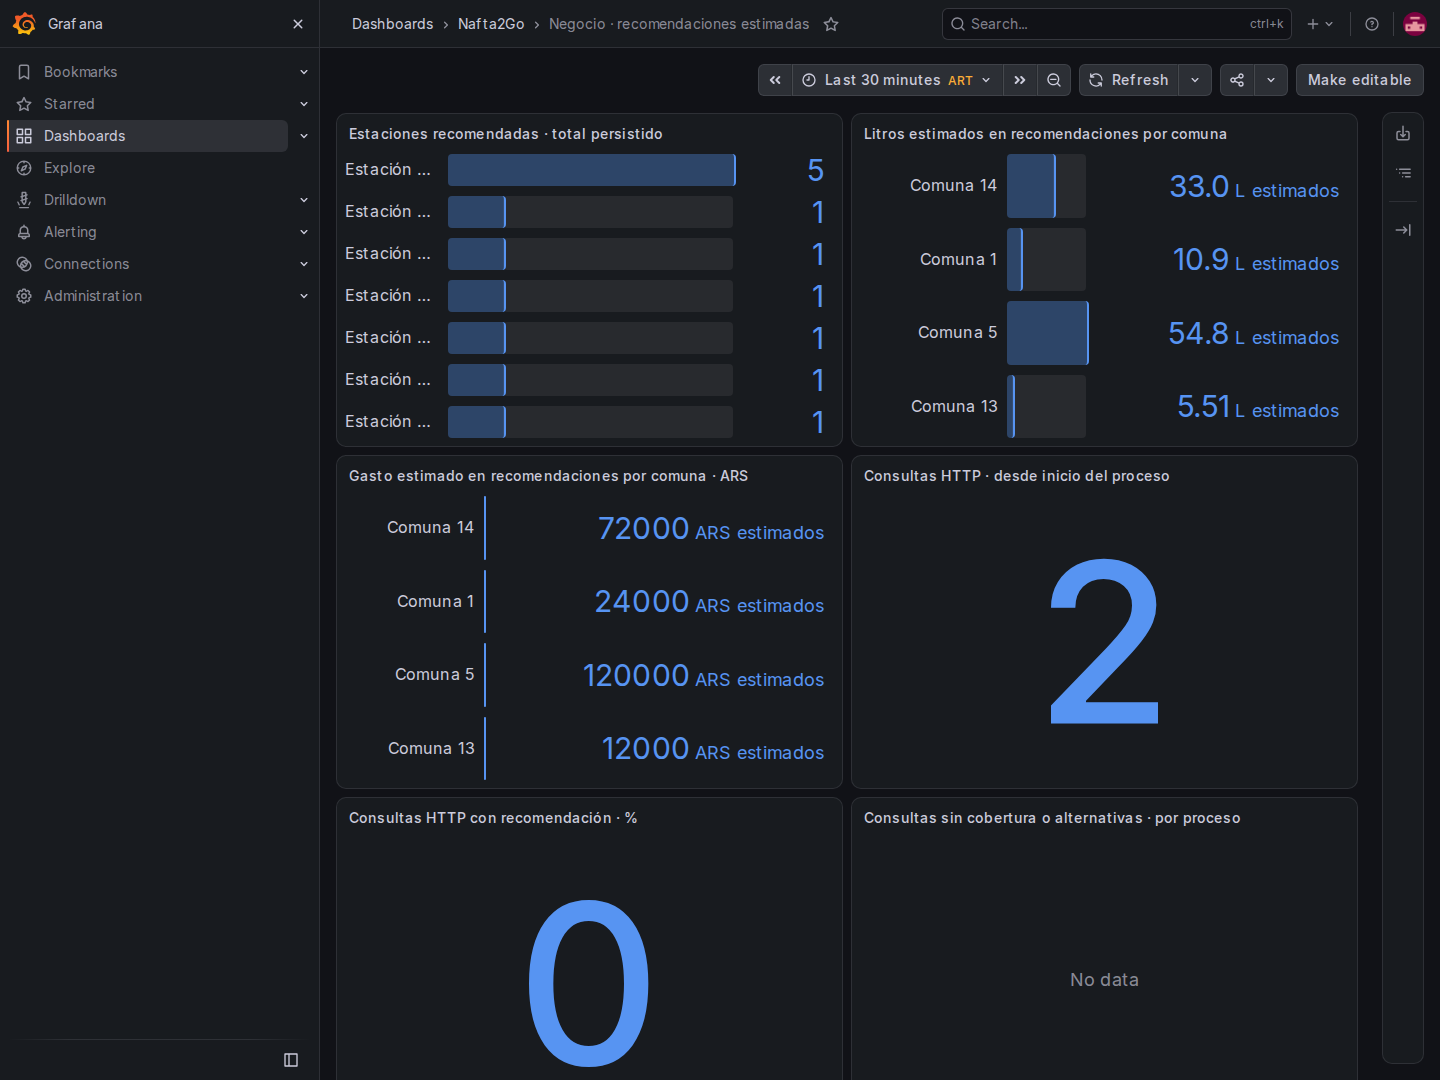
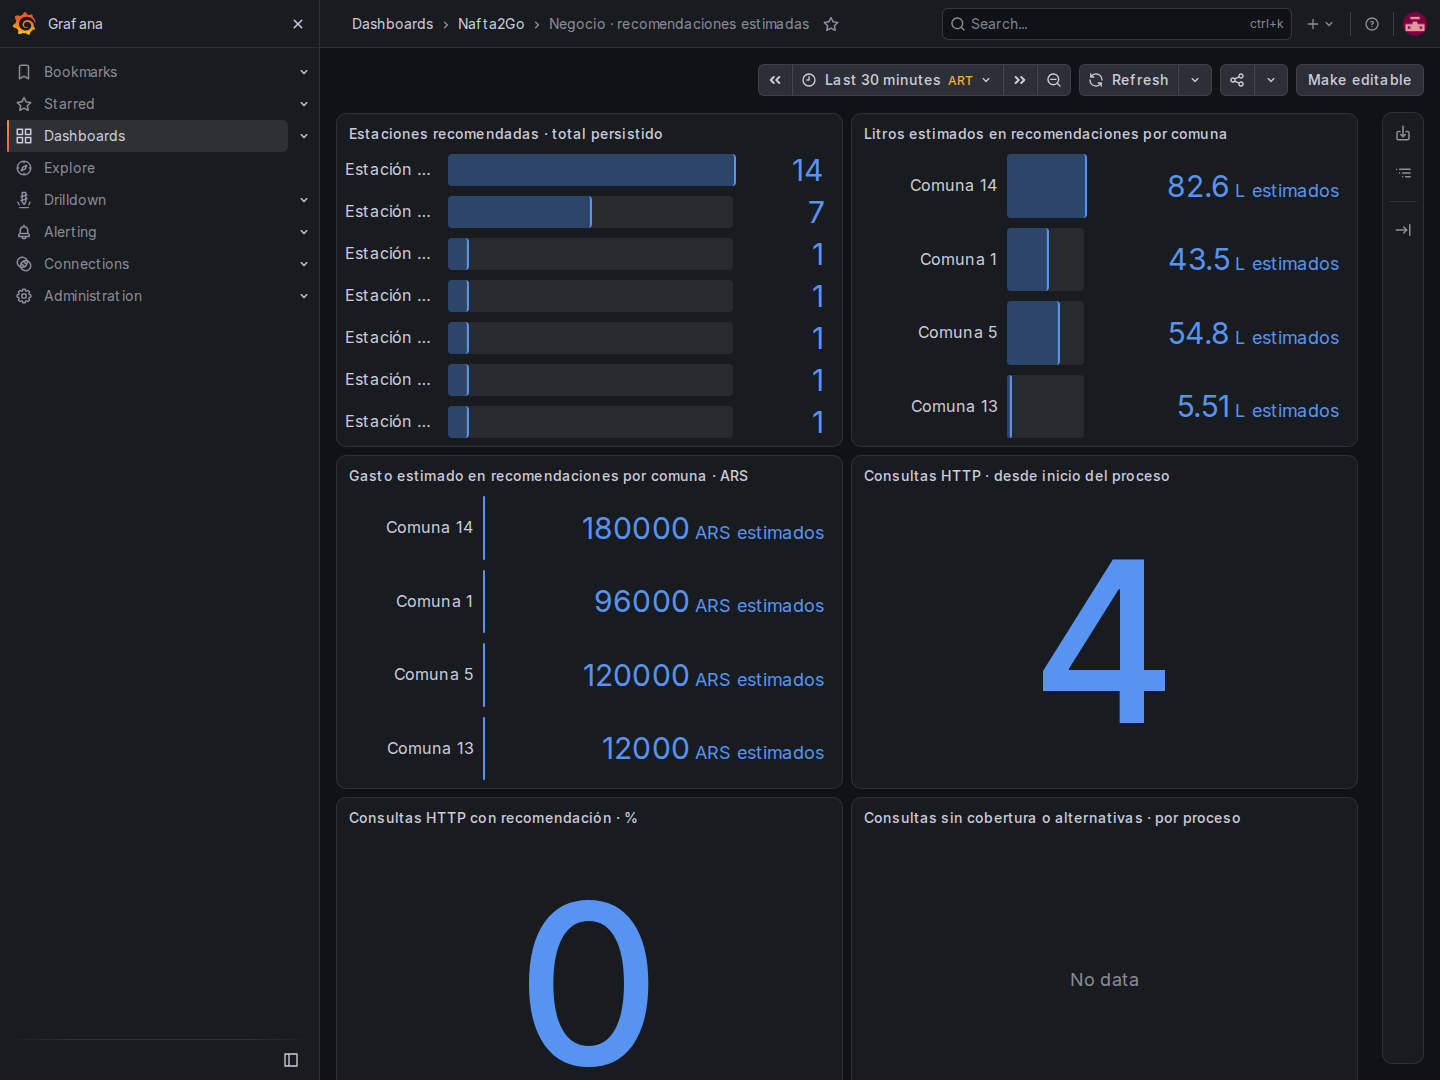
docs(ingesta): registrar el canal autónomo completo en aws
Closes #160\nRefs #22, #23, #24

diff --git a/README.md b/README.md
@@ -21,7 +21,7 @@ Santiago Bunge
 - [ADRs](adr/README.md): decisiones de diseño y comparación de alternativas.
 - [SRD](docs/SRD.md): especificación técnica de la POC: arquitectura y diagramas, stack, modelo de datos, contratos y estrategia de datos.
 - [Consulta completa de POC-05](docs/POC-05.md): ejecución, ranking, evidencia real y simplificaciones.
-- [Ingesta diaria y monitor](docs/INGESTA.md): unidades systemd, alertas locales y evidencia de fallos/recuperación; supervisión sostenida pendiente (MVP-01).
+- [Ingesta diaria y monitor](docs/INGESTA.md): unidades systemd, alertas locales y evidencia de fallos/recuperación; [canal AWS automático y límites comprobados](docs/evidencia/operacion-continua-2026-11-23/README.md) (MVP-01).
 - [Preparación AWS](docs/AWS.md): acceso del sandbox, plantilla de red, validación y límites.
 - [Servidor de demo AWS](docs/AWS-DEMO.md): `t3.small` efímera, entrega versionada por SSM, costos, resultado de la primera demo y respaldo de la base.
 - [Hosting continuo](docs/HOSTING.md): web en GitHub Pages y API/Grafana por HTTPS en EC2 con guardia de presupuesto (ADR-032); [evidencia operativa](docs/evidencia/operacion-continua-2026-11-23/README.md).
@@ -91,7 +91,7 @@ Cada decisión estructural tiene un ADR con alternativas comparadas; el índice 
     de carga con Locust, registro de modelos con alias de campeón y transferencia
     verificada de capturas.
 
-  Abarca de ADR-008 a ADR-031.
+  Abarca de ADR-008 a ADR-032.
 
 ## Desarrollo local
 
@@ -127,7 +127,7 @@ La Entrega 2 (POC) incluye el flujo completo y su video de demostración; la Ent
 | Componente | Tarea | Estado |
 |---|---|---|
 | Integración continua: links, lint, tests y secretos | POC-07 | Implementado |
-| Aplicación web local | MVP-03 | Formulario y resultados explicados con acceso de demo; flujos de teclado y navegador automatizados; validación física de móvil pendiente; ver docs/WEB.md |
+| Aplicación web local | MVP-03 | Formulario y resultados explicados con acceso de demo; flujos de teclado y navegador automatizados; prueba física de iPhone 13 informada por el dueño; otros navegadores y lector de pantalla sin acreditar; ver docs/WEB.md |
 | API del recomendador | MVP-02 | Implementada localmente con token, caché por proceso y tests HTTP; despliegue público por HTTPS comprobado; ver docs/API.md |
 | Normalización de precios | POC-01 | Implementado: descarga verificada, reglas con rechazos y alertas, y corrida real documentada en docs/NORMALIZACION.md |
 | Cobertura de precios y escenario histórico | POC-02 | Implementado: mínimo de 3 estaciones recientes en el corredor, escenario congelado del 24/10 rotulado como histórico y reporte en docs/COBERTURA.md |
@@ -156,7 +156,7 @@ La Entrega 2 (POC) incluye el flujo completo y su video de demostración; la Ent
 - **Diagnóstico ML:** sirve una referencia estadística (mediana de la bandera) con alertas provisionales cuya precisión no se midió. Los modelos aprendidos solo se evalúan offline. En la demo de AWS el diagnóstico queda no disponible si falta el histórico.
 - **Demo AWS:** una sola instancia, operación continua autorizada y guardia de presupuesto; detener cómputo no elimina cargos de discos/IP. Ver docs/HOSTING.md.
 - **Pendientes:**
-  - ingesta autónoma en AWS (#160);
+  - video, identificación de la entrega y revisión final del equipo (#24);
   - supervisión continua de la ingesta;
   - pruebas con usuarios y en un teléfono físico.
 

diff --git a/docs/evidencia/operacion-continua-2026-11-23/README.md b/docs/evidencia/operacion-continua-2026-11-23/README.md
@@ -95,3 +95,41 @@ HTTP loopback; no incluye el transporte HTTPS público. p95 UC01 0,66478 s y
 UC02 0,65488 s. Se guardaron las 103 consultas y la
 [auditoría posterior](qa-live-audit.json) terminó sin fallas. Los tamaños de las
 muestras y las condiciones no se extrapolan a veinte usuarios simultáneos.
+
+## Canal autónomo completo
+
+[Actions de adquisición](acquisition-run.json) terminó correctamente usando
+OIDC y un runner dedicado con acceso al catálogo. [Resultado](acquisition.json):
[1 lines of base64/hex data omitted]
+732 precios utilizables de CABA. No hubo transferencia manual del CSV ni uso de
+SSO personal en el circuito. Linux y macOS alojados habían agotado los reintentos
+de conexión; eso no demuestra que el proveedor no publique archivos.
+
+La [prueba programada](autonomous-ingestion.json) y su
+[verificación](ingestion-final.json) registran los runs 5 y 6 en AWS, ambos
+exitosos, 732 precios por versión y 184 estaciones. El segundo está rotulado
+como adquisición de contenido duplicado del run 5; no se presenta como una
+publicación nueva del proveedor. Sus recomendaciones seleccionan una versión,
+no suman las filas de ambas. Los dos conservan el linaje de Actions y el hash del
+recibo. Monitor sin alertas abiertas; readiness 200.
+
+Se disparó el servicio existente mediante timers transitorios para observarlo
+ahora; no se atribuye la prueba al calendario diario de mañana. La instalación
+diaria queda habilitada: Actions 06:17 y consumo EC2 06:45 de Argentina, monitor
+horario y `Persistent=true`. La primera prueba usó la precisión predeterminada
+del timer y el monitor consultado antes de dispararse indicó ausencia; al ejecutar
+la ingesta, el monitor se resolvió correctamente.
+
+Las capturas actuales de Grafana se renovaron después de esta recuperación.
+Los precios conservan sus fechas originales: el máximo observado del conjunto
+CABA es 17/11/2026 aunque se descargó el 23/11; no se rejuvenecen al copiarlo.
+`fetched_at` de RawCapture usa hora de Argentina y las marcas de ejecución
+son UTC, según el contrato de persistencia.
+
+El runner oficial Linux x64 2.338.2 se verificó contra SHA-256
[1 lines of base64/hex data omitted]
+con Python 3.12 y AWS CLI 2.42.1. Su servicio de usuario está habilitado, con
+reinicio y `Linger=yes`; usa credenciales de máquina de GitHub y OIDC de AWS.
+Se instaló fuera del checkout. Necesita este equipo encendido y con red: no se
+acredita disponibilidad 24/7 del origen de adquisición ni de sus proveedores.
+La API y Grafana sí siguen en EC2 bajo el guardia de presupuesto.

diff --git a/docs/INGESTA.md b/docs/INGESTA.md
@@ -13,7 +13,9 @@ anteriores. El recibo no firma al proveedor HTTP: requiere un canal privado y
 autenticado. El productor y receptor se incorporan como otro tramo de #160,
 según [ADR-031](../adr/ADR-031-transferencia-verificada-de-capturas.md).
 Pruebas de integridad, linaje y persistencia: `tests/adapters/test_capture_relay.py`.
-#160 sigue abierto: este contrato no instala programación ni acredita autonomía.
+El contrato por sí solo no acredita autonomía. El canal completo fue instalado
+y [verificado en AWS](evidencia/operacion-continua-2026-11-23/README.md):
+Actions → S3 → servicio EC2, con linaje, timers y monitor sin alertas.
 
 RF08 requiere una ingesta diaria. El comando registra `running` **antes** de
 consultar el catálogo: un fallo de catálogo, descarga, archivo local o normalización
@@ -423,14 +425,14 @@ con espacios de este equipo. No se instalan dependencias en el Python global.
 
 La instalación usa el runner oficial de `actions/runner`, verificando el SHA-256
 de su release, registro de un único repositorio y credenciales de máquina en
-un directorio privado ignorado por Git. Su servicio de usuario es
+un directorio privado fuera del checkout de Git. Su servicio de usuario es
 `nafta2go-energy-runner.service`, habilitado con `Linger=yes`; no usa AWS SSO.
 Actions obtiene credenciales AWS temporales por OIDC para escribir únicamente
 en el bucket; EC2 consume con su propio rol. El registro inicial requiere una
 cuenta autorizada de GitHub; no se conserva un PAT ni una access key de AWS.
 
 Para reproducir: registrar un runner Linux x64 desde Settings → Actions → Runners
-con la etiqueta anterior, instalar Python 3.12, habilitar su servicio con reinicio
+con la etiqueta anterior, instalar Python 3.12 y AWS CLI v2 en el PATH del servicio, habilitar su servicio con reinicio
 y configurar la variable del repositorio. Mantener el runner actualizado.
 No ejecutar código de forks ni PR no revisados en ese equipo. Comprobar
 `systemctl --user is-active nafta2go-energy-runner.service` y el estado online en
@@ -441,3 +443,8 @@ suspensión, falta de red ni apagado físico. En esos casos Actions queda en col
 y AWS conserva su última versión utilizable; el monitor informa falta/fallo de
 ingesta. No se acredita disponibilidad 24/7 del equipo de adquisición. Para
 retirarlo, detener/deshabilitar su servicio y eliminar su registro en GitHub.
+
+
+La prueba completa del 23/11 y sus límites están en la
+[evidencia del canal autónomo](evidencia/operacion-continua-2026-11-23/README.md).
+No se equipara la hora de descarga con la fecha de los precios originales.

diff --git a/adr/README.md b/adr/README.md
@@ -6,11 +6,18 @@ Los Architecture Decision Records documentan decisiones de diseño relevantes, l
 
 | ADR | Decisión | Estado |
 |---|---|---|
+| [ADR-001](ADR-001-alcance-y-estrategia-de-datos.md) | Alcance en CABA y estrategia frente a la baja cobertura reciente | Aceptado |
+| [ADR-002](ADR-002-recomendador-deterministico-y-diagnostico-ml.md) | Recomendador determinístico con diagnóstico ML separado | Aceptado |
+| [ADR-003](ADR-003-proveedor-de-rutas.md) | OpenRouteService como proveedor principal y OSRM como alternativa | Aceptado |
+| [ADR-004](ADR-004-arquitectura-por-capas.md) | Arquitectura modular por capas | Aceptado |
 
 ## Decisiones de la Entrega 2
 
 | ADR | Decisión | Estado |
 |---|---|---|
+| [ADR-005](ADR-005-persistencia-de-la-poc.md) | SQLite con SQLAlchemy y Alembic para la persistencia de la POC | Aceptado |
+| [ADR-006](ADR-006-escenario-historico-de-la-poc.md) | Captura vigente congelada como escenario histórico de la POC | Propuesto |
+| [ADR-007](ADR-007-trazabilidad-de-recomendaciones-historicas.md) | Origen de datos de recomendaciones históricas | Propuesto |
 
 La decisión sobre el proveedor de rutas se aceptó con la prueba autenticada de POC-03; el resultado está en [docs/RUTAS.md](../docs/RUTAS.md).
 
@@ -48,5 +55,5 @@ La decisión sobre el proveedor de rutas se aceptó con la prueba autenticada de
 | [ADR-028](ADR-028-url-https-con-cloudflare.md) | URL HTTPS de demo con Cloudflare Tunnel | Reemplazado por ADR-032 |
 | [ADR-029](ADR-029-pruebas-de-carga-con-locust.md) | Pruebas de carga y estrés con Locust sobre un servidor aislado | Propuesto |
 | [ADR-030](ADR-030-registro-de-modelos-versionado.md) | Registro de modelos versionado con alias de campeón | Propuesto |
-| [ADR-031](ADR-031-transferencia-verificada-de-capturas.md) | Transferencia verificada de capturas para la ingesta cloud | Propuesto |
+| [ADR-031](ADR-031-transferencia-verificada-de-capturas.md) | Transferencia verificada de capturas para la ingesta cloud | Aceptado |
 | [ADR-032](ADR-032-pages-y-api-publica-con-presupuesto.md) | Pages y API pública con presupuesto total | Aceptado |

diff --git a/adr/ADR-031-transferencia-verificada-de-capturas.md b/adr/ADR-031-transferencia-verificada-de-capturas.md
@@ -1,5 +1,5 @@
 ---
-status: Propuesto
+status: Aceptado
 date: 2026-11-23
 decision-makers: Equipo Nafta2Go
 consulted: ADR-019, ADR-024, issue 160
@@ -61,3 +61,16 @@ recuperan al arrancar un disparo omitido y rechazan recibos vencidos. Se mantien
 apagado automático y límites de duración. Las pruebas simulan transporte, fallos
 y permisos; la evidencia de creación de infraestructura no reemplaza una corrida
 OIDC ni una ingesta automática exitosa. Sin esa comprobación #160 sigue abierto.
+
+
+## Verificación y entorno de adquisición
+
+El 23/11 se comprobó el circuito Actions/OIDC → S3 → ingesta en EC2 con hash,
+tamaño y linaje verificados. Los runners alojados Linux/macOS también dieron
+timeout al catálogo: se eligió un runner dedicado en el entorno con conectividad
+comprobada, con servicio persistente e identidad de máquina, sin SSO personal.
+Conservar runners alojados evita operar un equipo propio, pero no resolvió el
+acceso observado. Un runner dedicado permite adquirir, a cambio de mantenerlo
+encendido, conectado y actualizado. No se declara disponibilidad 24/7 del
+productor; el consumidor conserva las últimas versiones y el monitor detecta
+la ausencia/fallo. [Prueba y límites](../docs/evidencia/operacion-continua-2026-11-23/README.md).

diff --git a/docs/VALIDACION.md b/docs/VALIDACION.md
@@ -233,3 +233,7 @@ habilitada; HTTP loopback excluye transporte público. Cien respuestas 200,
 [publicada](evidencia/operacion-continua-2026-11-23/live-api.json) acredita
 la condición medida con un usuario, no disponibilidad continua ni capacidad
 para veinte usuarios.
+
+La ingesta autónoma se comprobó por el canal Actions/OIDC → S3 → EC2,
+runs 5 y 6, 732 precios por versión y monitor sin alertas. La adquisición
+requiere el equipo del runner encendido/conectado; no se declara un SLA 24/7.
